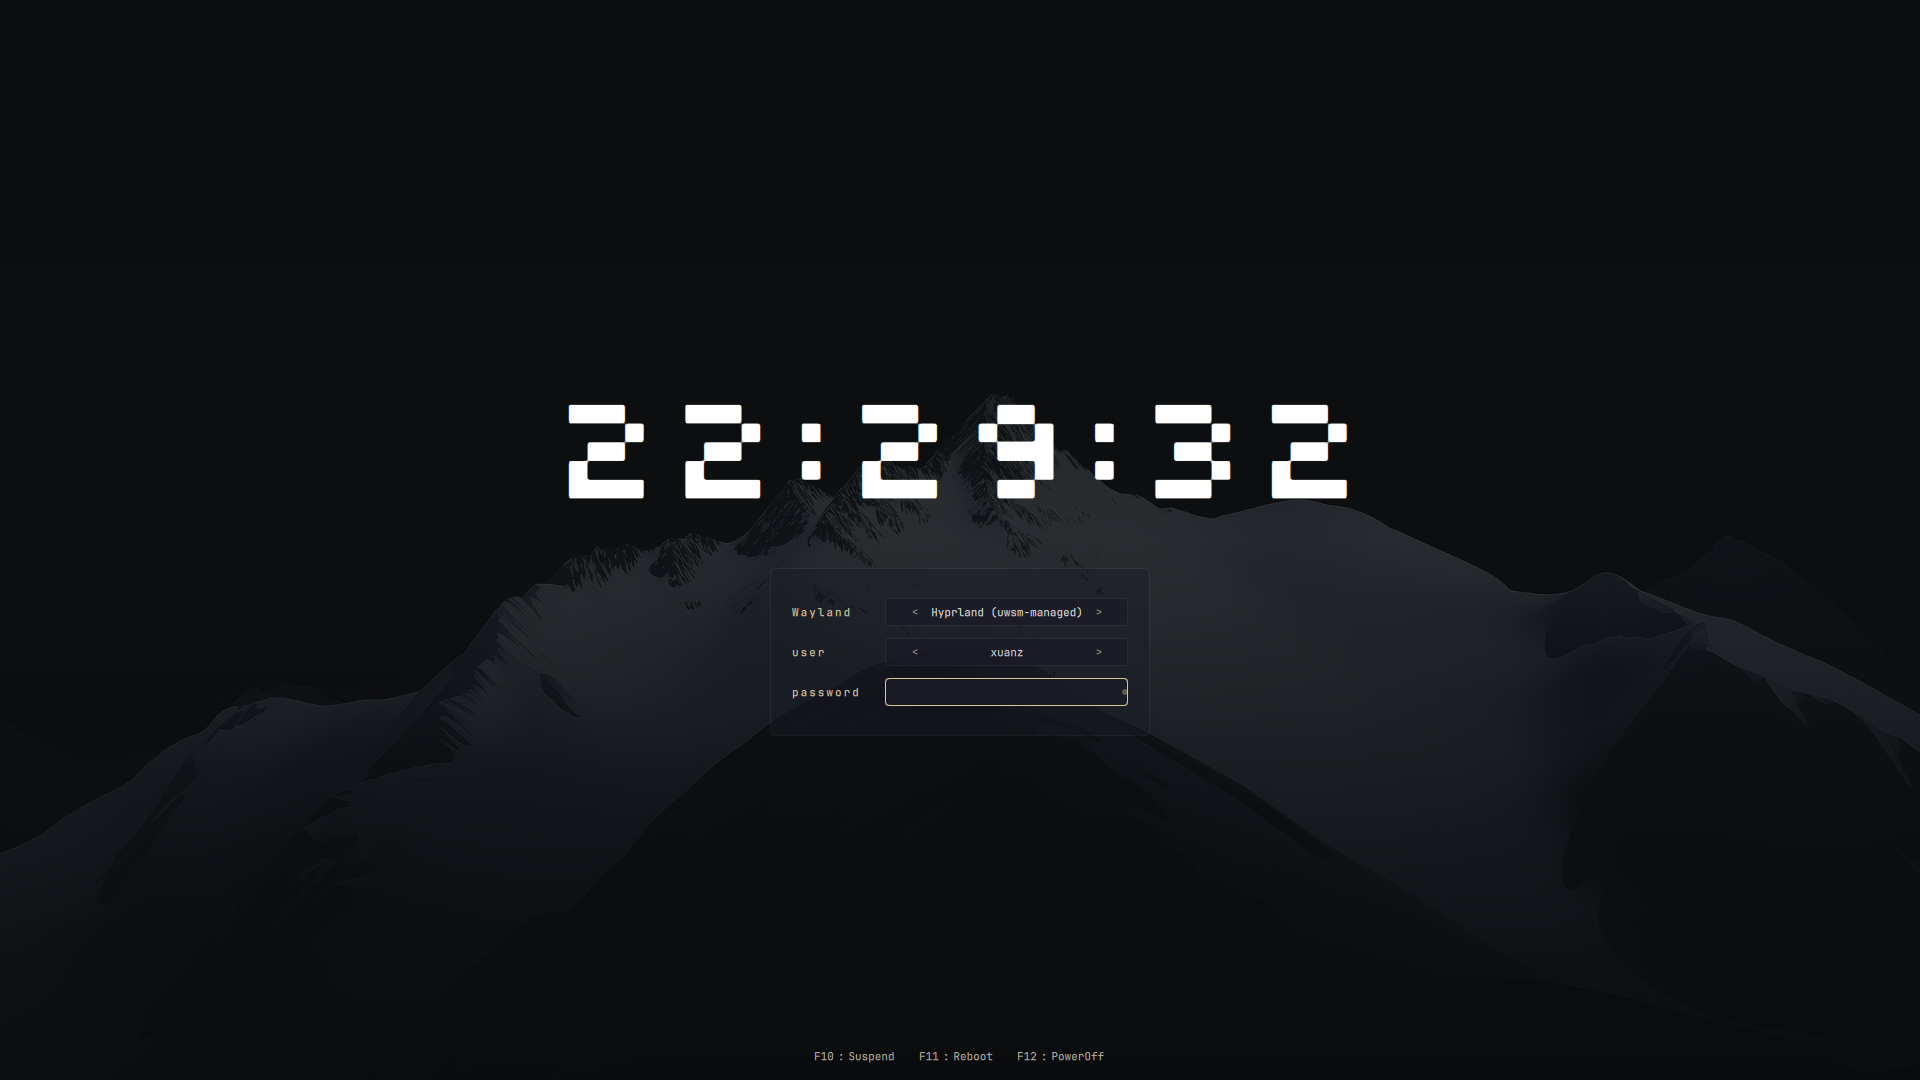
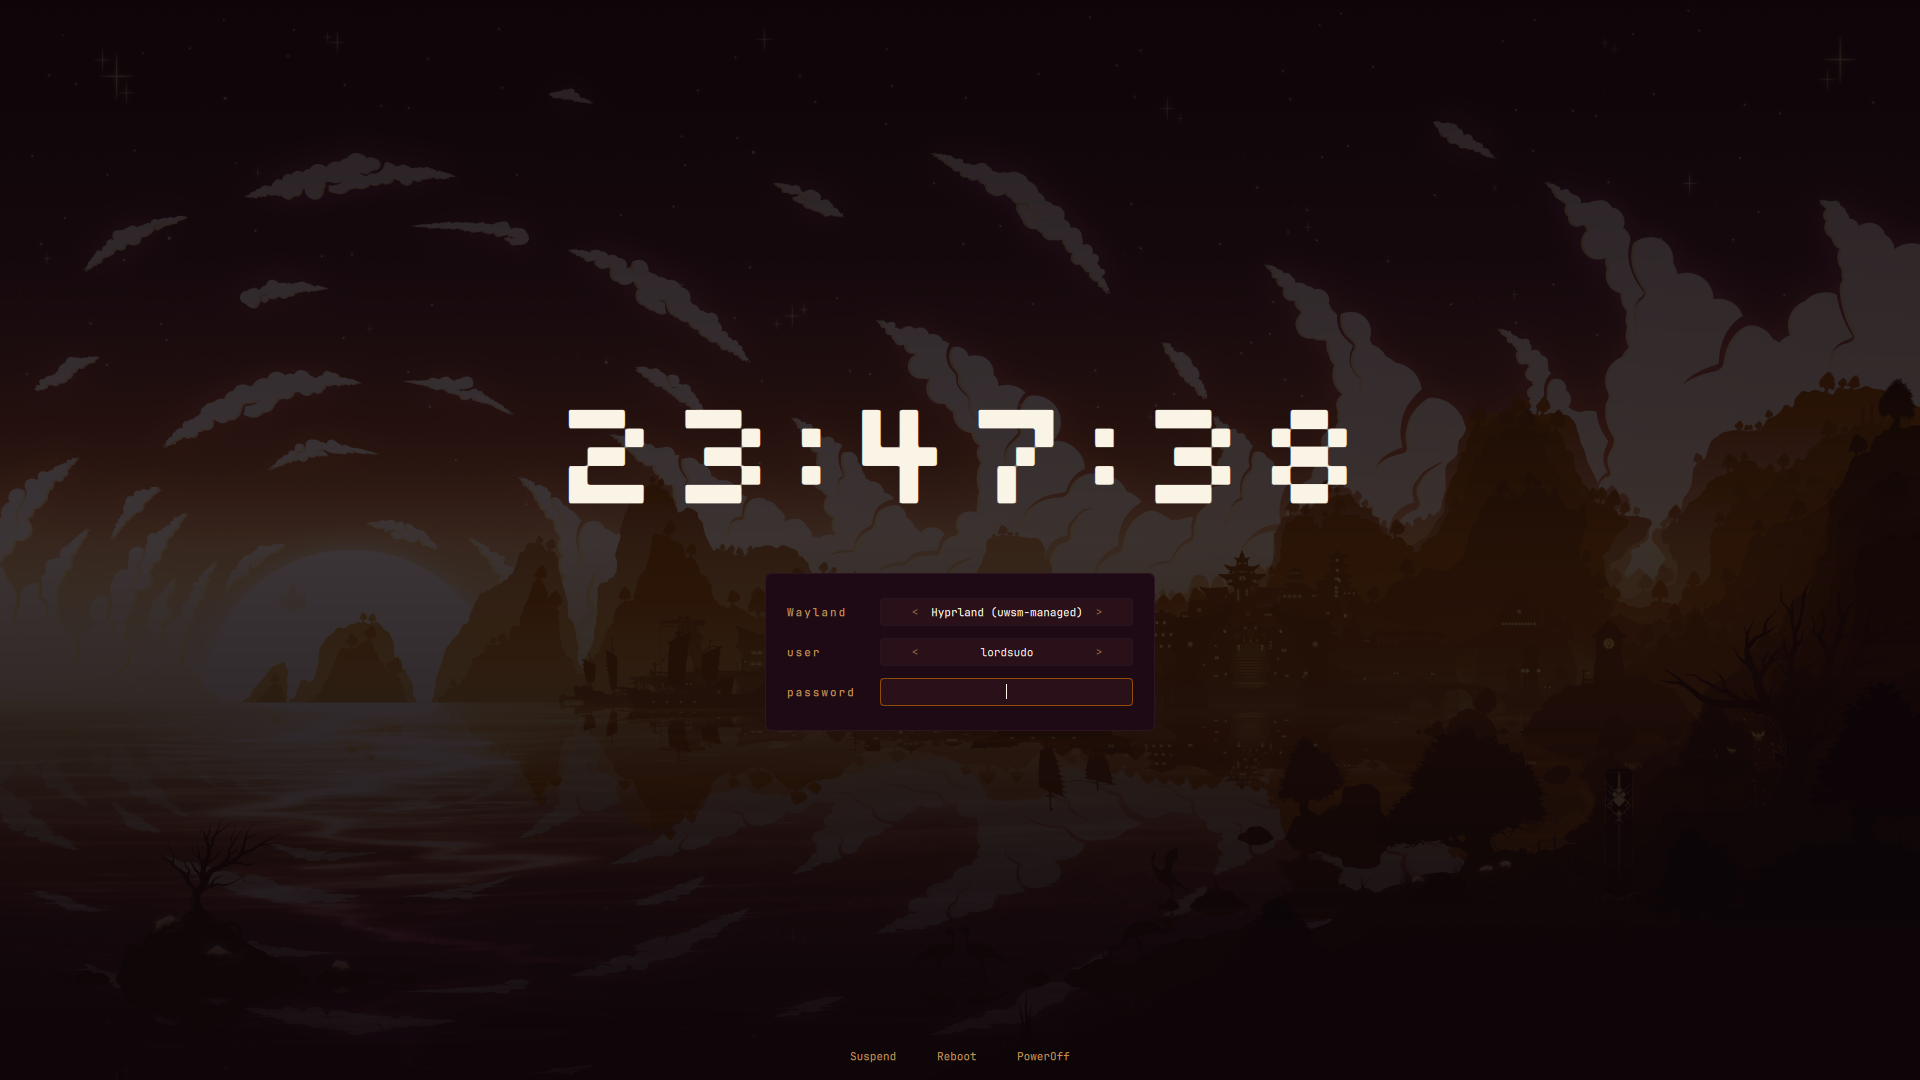
feat: update theme colors and assets; replace background image and adjust README details

diff --git a/Main.qml b/Main.qml
@@ -7,7 +7,7 @@ Rectangle {
     id: root
     width: Screen.width || 1920
     height: Screen.height || 1080
-    color: "#16161D"
+    color: "#0E0508"
 
     // ── Font Loaders ──────────────────────────────────────────────
     FontLoader {
@@ -42,7 +42,7 @@ Rectangle {
     Image {
         id: bgImage
         anchors.fill: parent
-        source: "mountain-night.jpg"
+        source: "background.jpg"
         fillMode: Image.PreserveAspectCrop
         asynchronous: true
         opacity: 0.95
@@ -52,9 +52,9 @@ Rectangle {
     Rectangle {
         anchors.fill: parent
         gradient: Gradient {
-            GradientStop { position: 0.0; color: "#e60a0b0d" }
-            GradientStop { position: 0.5; color: "#cc0a0b0d" }
-            GradientStop { position: 1.0; color: "#f20a0b0d" }
+            GradientStop { position: 0.0; color: "#e60E0508" }
+            GradientStop { position: 0.5; color: "#cc0E0508" }
+            GradientStop { position: 1.0; color: "#f20E0508" }
         }
     }
 
@@ -116,7 +116,7 @@ Rectangle {
             font.family: clockFont()
             font.pixelSize: Math.min(root.width * 0.10, 150)
             font.letterSpacing: 4
-            color: "#ffffff"
+            color: "#FAF4E7"
 
             Timer {
                 interval: 1000
@@ -137,11 +137,11 @@ Rectangle {
         Rectangle {
             id: loginPanel
             Layout.alignment: Qt.AlignHCenter
-            width: 380 * root.sc
-            height: loginGrid.height + 60 * root.sc
-            color: "#731A1A26"
+            width: 390 * root.sc
+            height: loginGrid.height + 50 * root.sc
+            color: "#1D0A15"
             radius: 6 * root.sc
-            border.color: "#0dffffff"
+            border.color: "#2d1423"
             border.width: Math.max(1, Math.round(1 * root.sc))
 
             ColumnLayout {
@@ -161,15 +161,15 @@ Rectangle {
                         font.pixelSize: Math.round(11 * root.sc)
                         font.weight: Font.Medium
                         font.letterSpacing: 2 * root.sc
-                        color: "#d5c89a"
+                        color: "#CE9451"
                         Layout.preferredWidth: 85 * root.sc
                     }
 
                     Rectangle {
                         Layout.fillWidth: true
                         height: 28 * root.sc
-                        color: "#cc1A1A26"
-                        border.color: "#0dffffff"
+                        color: "#cc2C121A"
+                        border.color: "#0dFAF4E7"
                         border.width: Math.max(1, Math.round(1 * root.sc))
                         radius: 4 * root.sc
 
@@ -184,7 +184,7 @@ Rectangle {
                                     text: "<"
                                     font.family: monoFont()
                                     font.pixelSize: Math.round(10 * root.sc)
-                                    color: "#b8d5c89a"
+                                    color: "#b8C68C4F"
                                     horizontalAlignment: Text.AlignHCenter
                                     verticalAlignment: Text.AlignVCenter
                                 }
@@ -199,7 +199,7 @@ Rectangle {
                                 font.family: monoFont()
                                 font.pixelSize: Math.round(11 * root.sc)
                                 font.weight: Font.Medium
-                                color: "#d4d4d4"
+                                color: "#FAF4E7"
                                 horizontalAlignment: Text.AlignHCenter
                                 Layout.preferredWidth: 140 * root.sc
                             }
@@ -211,7 +211,7 @@ Rectangle {
                                     text: ">"
                                     font.family: monoFont()
                                     font.pixelSize: Math.round(10 * root.sc)
-                                    color: "#b8d5c89a"
+                                    color: "#b8C68C4F"
                                     horizontalAlignment: Text.AlignHCenter
                                     verticalAlignment: Text.AlignVCenter
                                 }
@@ -234,15 +234,15 @@ Rectangle {
                         font.pixelSize: Math.round(11 * root.sc)
                         font.weight: Font.Medium
                         font.letterSpacing: 2 * root.sc
-                        color: "#d5c89a"
+                        color: "#CE9451"
                         Layout.preferredWidth: 85 * root.sc
                     }
 
                     Rectangle {
                         Layout.fillWidth: true
                         height: 28 * root.sc
-                        color: "#cc1A1A26"
-                        border.color: "#0dffffff"
+                        color: "#cc2C121A"
+                        border.color: "#0dFAF4E7"
                         border.width: Math.max(1, Math.round(1 * root.sc))
                         radius: 4 * root.sc
 
@@ -257,7 +257,7 @@ Rectangle {
                                     text: "<"
                                     font.family: monoFont()
                                     font.pixelSize: Math.round(10 * root.sc)
-                                    color: "#b8d5c89a"
+                                    color: "#b8C68C4F"
                                     horizontalAlignment: Text.AlignHCenter
                                     verticalAlignment: Text.AlignVCenter
                                 }
@@ -271,7 +271,7 @@ Rectangle {
                                 text: userCombo.currentText || "Xuanz"
                                 font.family: monoBoldFont()
                                 font.pixelSize: Math.round(11 * root.sc)
-                                color: "#d4d4d4"
+                                color: "#FAF4E7"
                                 horizontalAlignment: Text.AlignHCenter
                                 Layout.preferredWidth: 140 * root.sc
                             }
@@ -283,7 +283,7 @@ Rectangle {
                                     text: ">"
                                     font.family: monoFont()
                                     font.pixelSize: Math.round(10 * root.sc)
-                                    color: "#b8d5c89a"
+                                    color: "#b8C68C4F"
                                     horizontalAlignment: Text.AlignHCenter
                                     verticalAlignment: Text.AlignVCenter
                                 }
@@ -306,7 +306,7 @@ Rectangle {
                         font.pixelSize: Math.round(11 * root.sc)
                         font.weight: Font.Medium
                         font.letterSpacing: 2 * root.sc
-                        color: "#d5c89a"
+                        color: "#CE9451"
                         Layout.preferredWidth: 85 * root.sc
                     }
 
@@ -314,8 +314,8 @@ Rectangle {
                         id: passwordBox
                         Layout.fillWidth: true
                         height: 28 * root.sc
-                        color: "#cc1A1A26"
-                        border.color: passwordInput.activeFocus ? "#d5c89a" : "#0dffffff"
+                        color: "#cc2C121A"
+                        border.color: passwordInput.activeFocus ? "#914C05" : "#0dFAF4E7"
                         border.width: Math.max(1, Math.round(1 * root.sc))
                         radius: 4 * root.sc
 
@@ -326,7 +326,7 @@ Rectangle {
                             font.family: monoBoldFont()
                             font.pixelSize: Math.round(11 * root.sc)
                             font.letterSpacing: 3 * root.sc
-                            color: "#ffffff"
+                            color: "#FAF4E7"
                             echoMode: TextInput.Password
                             passwordCharacter: "•"
                             horizontalAlignment: TextInput.AlignHCenter
@@ -346,7 +346,7 @@ Rectangle {
         anchors.bottom: parent.bottom
         anchors.bottomMargin: 16 * sc
         anchors.horizontalCenter: parent.horizontalCenter
-        spacing: 30 * sc
+        spacing: 40 * sc
         z: 10
 
         Repeater {
@@ -366,7 +366,7 @@ Rectangle {
                     text: modelData.label
                     font.family: monoFont()
                     font.pixelSize: Math.round(11 * sc)
-                    color: shortcutMouse.containsMouse ? "#d5c89a" : "#b6b09e"
+                    color: shortcutMouse.containsMouse ? "#914C05" : "#CE9451"
                 }
 
                 MouseArea {
@@ -384,7 +384,7 @@ Rectangle {
     Rectangle {
         id: loadingOverlay
         anchors.fill: parent
-        color: "#f2000000"
+        color: "#f20E0508"
         z: 50
         visible: false
         opacity: 0
@@ -409,7 +409,7 @@ Rectangle {
 
                 Rectangle {
                     width: 8 * sc; height: 8 * sc; radius: 4 * sc
-                    color: "#d5c89a"
+                    color: "#C68C4F"
                     SequentialAnimation on opacity {
                         running: loadingOverlay.visible
                         loops: Animation.Infinite
@@ -424,15 +424,15 @@ Rectangle {
                     font.family: monoBoldFont()
                     font.pixelSize: Math.round(11 * sc)
                     font.letterSpacing: 2 * sc
-                    color: "#b6b09e"
+                    color: "#C68C4F"
                 }
             }
 
             Rectangle {
                 Layout.fillWidth: true
                 height: 160 * sc
-                color: "#e6000000"
-                border.color: "#0dffffff"
+                color: "#e60E0508"
+                border.color: "#0dFAF4E7"
                 border.width: Math.max(1, Math.round(1 * sc))
                 radius: 4 * sc
                 clip: true
@@ -449,7 +449,7 @@ Rectangle {
                         text: model.text
                         font.family: monoFont()
                         font.pixelSize: Math.round(10 * sc)
-                        color: "#66b981"
+                        color: "#C68C4F"
                     }
 
                     onCountChanged: positionViewAtEnd()

diff --git a/README.md b/README.md
@@ -1,13 +1,13 @@
-# mountain-sddm
+# qext-sddm
 
-Retro pixel-style SDDM login theme. Dark background, Silkscreen pixel clock, amber accents, Hyprland-first session picker, and a terminal-log overlay for login and system actions.
+Retro pixel-style SDDM login theme. Dark plum background, Silkscreen pixel clock, burnt orange & warm gold accents, Hyprland-first session picker, and a terminal-log overlay for login and system actions.
 
 ![Preview](image.png)
 
 ## Features
 
 - **Pixel clock** — Silkscreen font with large centered time display
-- **Amber-on-dark palette** — amber (`#d8a657`) accents on a dimly lit dark panel
+- **Warm palette** — burnt orange (`#914C05`) and warm gold (`#C68C4F`) accents on dark plum background
 - **Hyprland-first** — auto-selects the Hyprland session if available
 - **Terminal-log overlay** — simulated `[  OK  ]` / `[ FAIL ]` log lines appear during login, suspend, reboot, and poweroff
 - **Resolution-aware scaling** — sizes scale to fit the screen while respecting configurable caps
@@ -16,8 +16,8 @@ Retro pixel-style SDDM login theme. Dark background, Silkscreen pixel clock, amb
 ## Quick start
 
 ```bash
-git clone https://github.com/xuanz-ai/mountain-sddm.git
-cd mountain-sddm
+git clone https://github.com/xuanz-ai/qext-sddm.git
+cd qext-sddm
 ./test-sddm
 ```
 
@@ -26,14 +26,14 @@ That's it — the script installs the theme and opens SDDM greeter in test mode 
 ## Permanent install
 
 ```bash
-sudo cp -r . /usr/share/sddm/themes/mountain/
+sudo cp -r . /usr/share/sddm/themes/qext-sddm/
 ```
 
 Then set the theme in `/etc/sddm.conf`:
 
 ```ini
 [Theme]
-Current=mountain
+Current=qext-sddm
 ```
 
 ## Touchpad tap-to-click
@@ -67,7 +67,7 @@ This creates `/etc/X11/xorg.conf.d/30-touchpad.conf` with libinput tap-to-click 
 
 All styling is in `Main.qml`. Key values near the top:
 
-- **Colors** — look for hex strings (`#d5c89a`, `#16161D`, etc.)
+- **Colors** — look for hex strings (`#C68C4F`, `#0E0508`, `#914C05`, etc.)
 - **Sizing** — the `sc` property drives all scaling; individual base sizes are hardcoded multipliers (e.g. `380 * root.sc` for panel width)
 - **Font sizes** — `Math.min(root.width * 0.10, 150)` for the clock, `11 * root.sc` for body text
 
